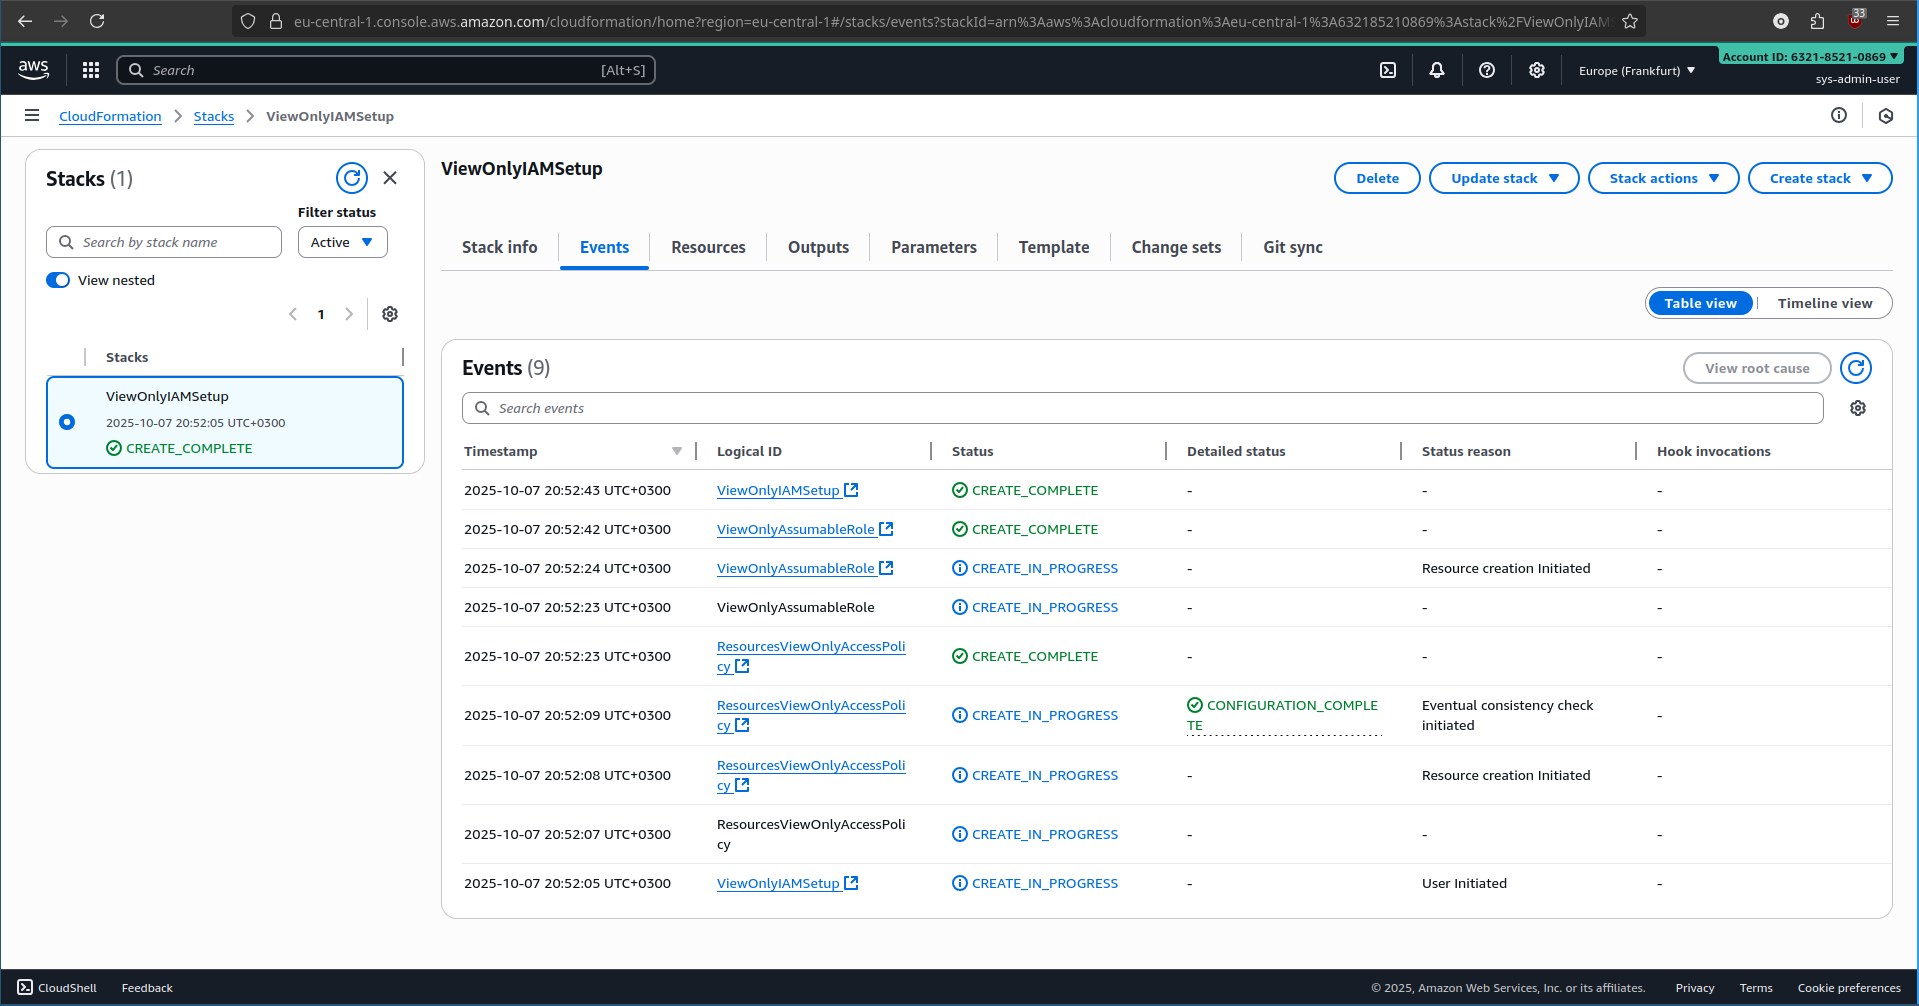
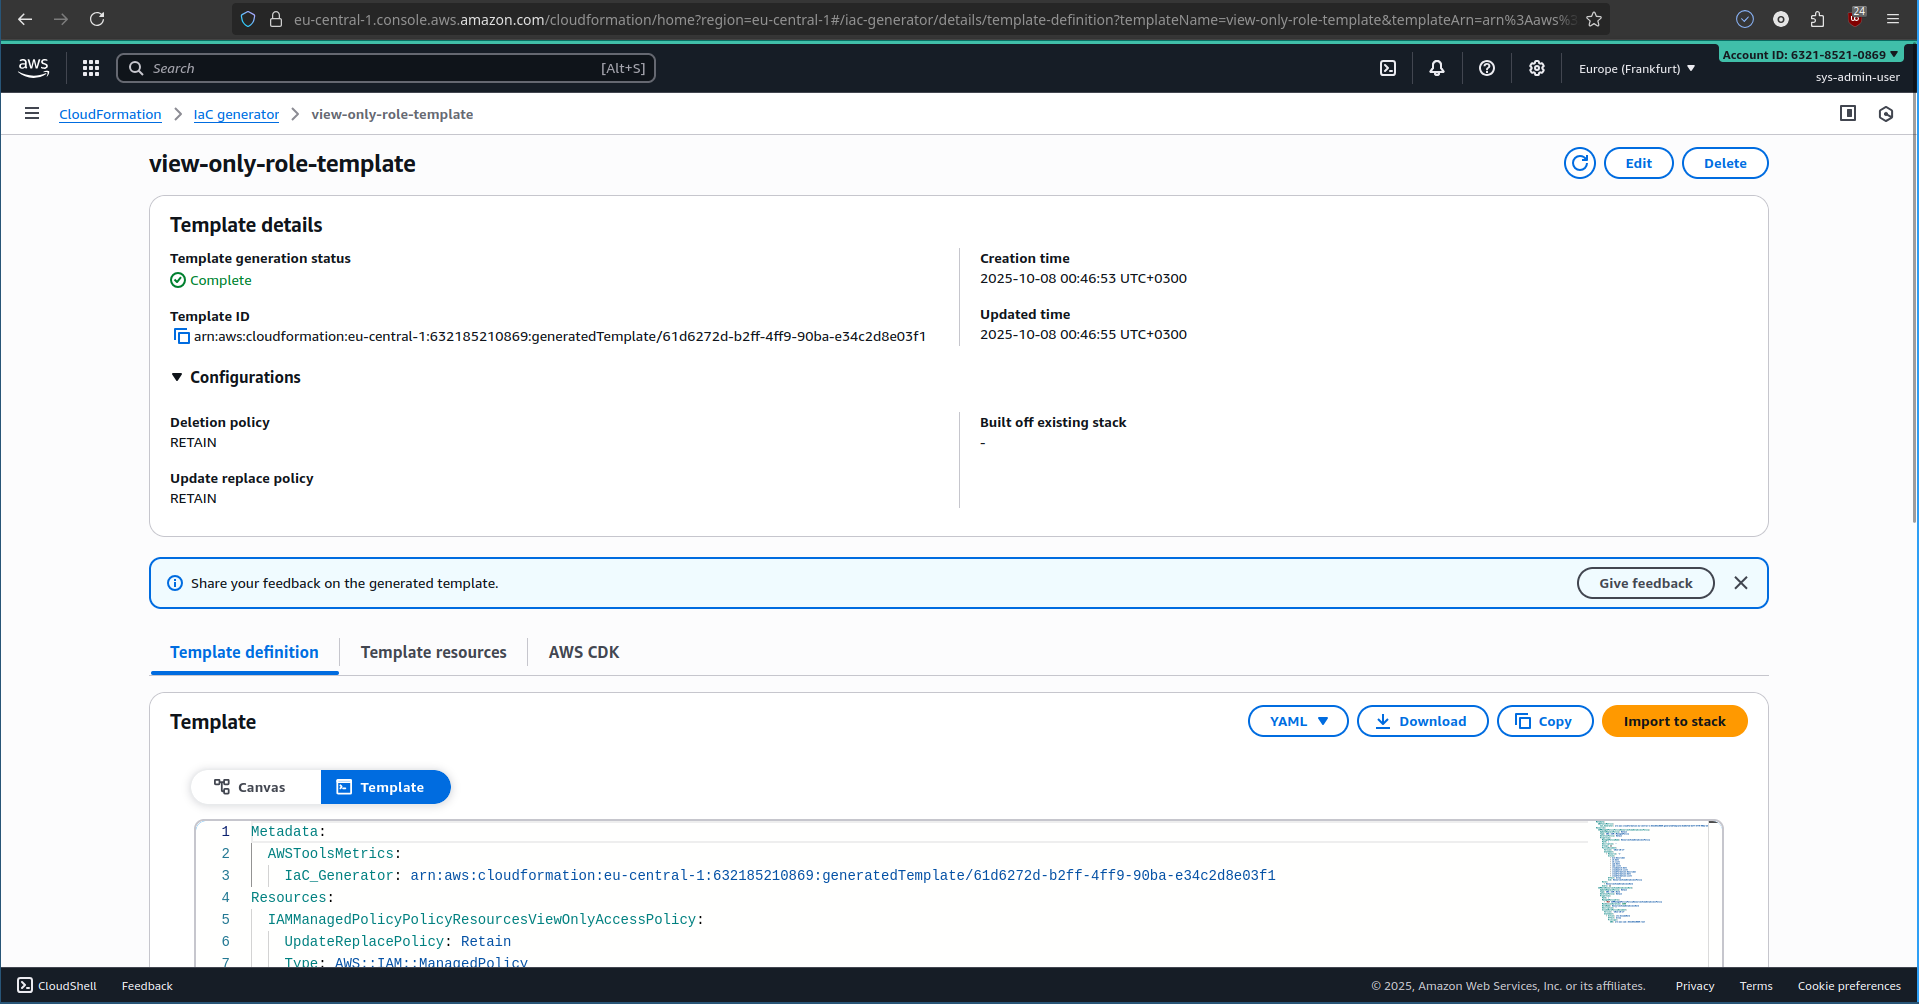
update 5

diff --git a/task5/task5.md b/task5/task5.md
@@ -1,5 +1,5 @@
 # 5. (Optional) Create a Cloudformation (or Terraform, OpenTofu, whatever) template describing your policy and role.
 
-[View CloudFormation Template](./cloudformation_policy_role_template.yaml)
+[View CloudFormation Template](./view-only-role-template.yaml)
 
 ![5.png](./5.png)
